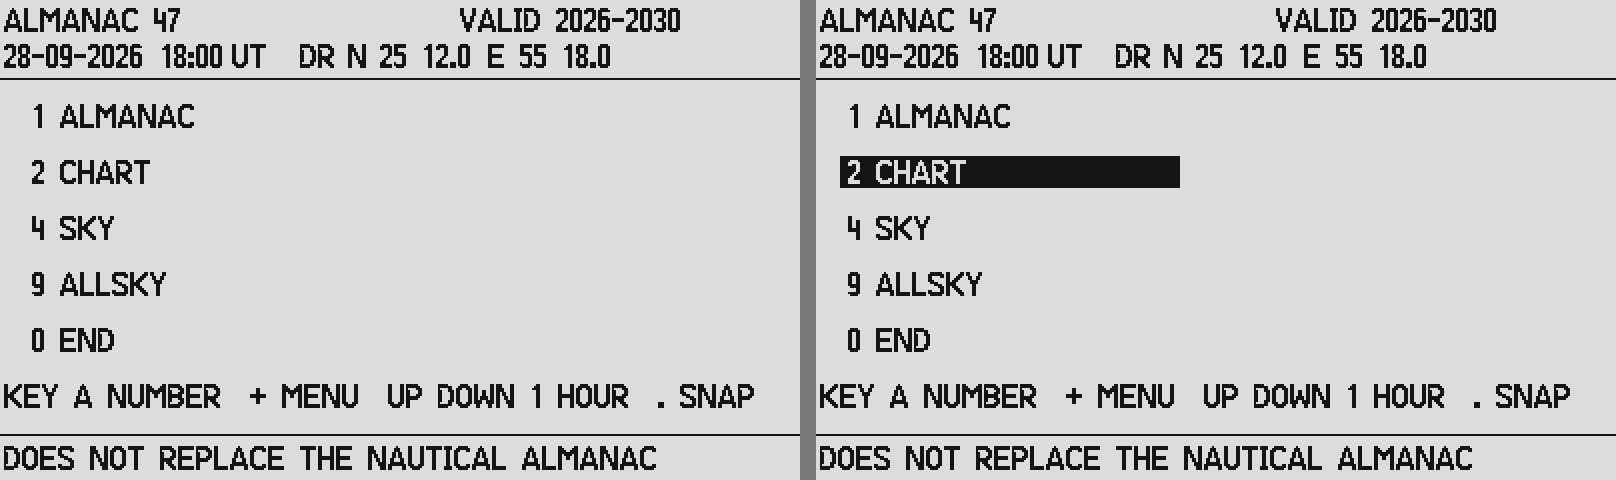
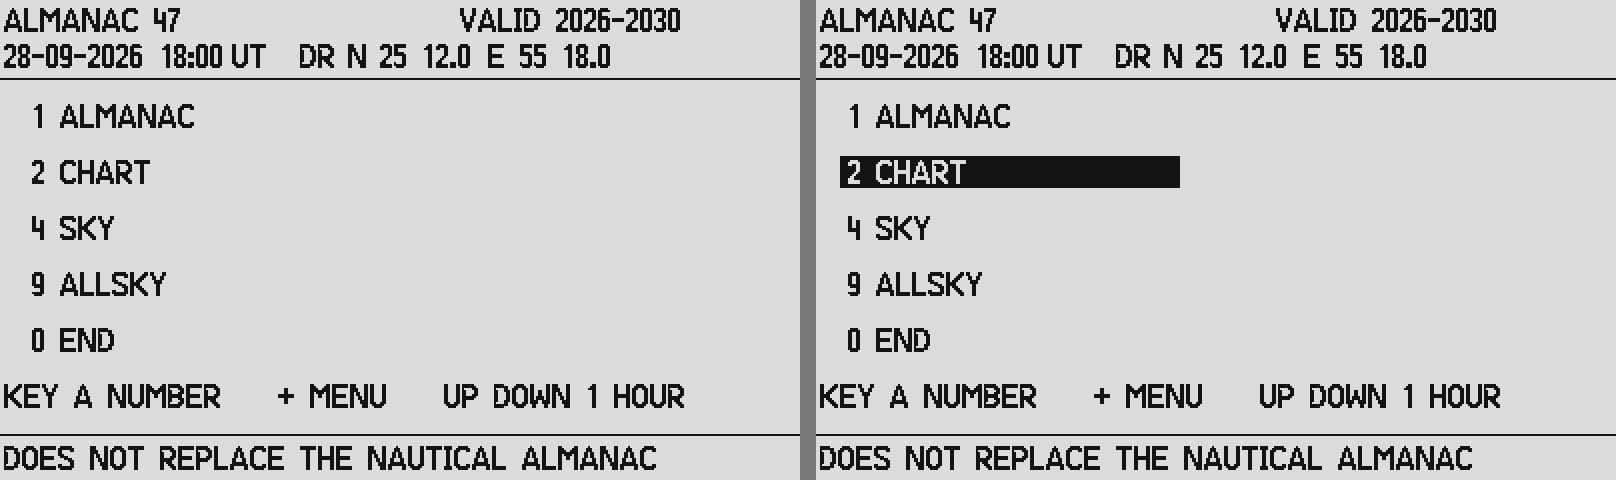
Revert "NAV: . key takes a screenshot (SNAP) of the menu or the view"
This reverts commit 85b8604 (keys not working properly on the C47).

Claude-Session: https://claude.ai/code/session_01677MyYEjVMcLMWfCdQA5yQ

Changed region(s): [[0.6498, 0.7812, 0.9901, 0.875], [0.1547, 0.7812, 0.4641, 0.875]]

diff --git a/tools/generators/gennav.py b/tools/generators/gennav.py
@@ -26,9 +26,8 @@ TOP, PITCH, XL, XR = 176, 28, 16, 206
 BOX_W, BOX_H = 170, 16
 TITLE = 'ALMANAC 47'
 UP, DOWN = 51, 61                      # arrow keycodes
-DOT = 83                               # . key: SNAP (screenshot of what is shown)
 ANTS = 6                               # ants shown after an arrow, 0.1 s apart
-HINT = 'KEY A NUMBER  + MENU  UP DOWN 1 HOUR  . SNAP'
+HINT = 'KEY A NUMBER    + MENU    UP DOWN 1 HOUR'
 WARNING = 'DOES NOT REPLACE THE NAUTICAL ALMANAC'
 
 
@@ -88,7 +87,6 @@ def program(inp, items=ALL, autoinit=False):
     a('LBL 02', 'KEY? 39', 'GTO 02',
       'RCL 39', 82, 'X=Y?', 'GTO 09',
       'RCL 39', UP, 'X=Y?', 'GTO 22', 'RCL 39', DOWN, 'X=Y?', 'GTO 23',        # arrows: the menu one hour later / earlier
-      'RCL 39', DOT, 'X=Y?', 'GTO 27',                                         # . : screenshot of the menu
       'RCL 39', 10, '÷', 'IP', 'STO 38', 5, 'X>Y?', 'GTO 26', 'RCL 38', 7, 'X<Y?', 'GTO 26',     # row 5-7
       'RCL 39', 10, 'MOD', 'STO 37', 2, 'X>Y?', 'GTO 26', 'RCL 37', 4, 'X<Y?', 'GTO 26',        # column 2-4
       7, 'RCL- 38', 3, '×', 'RCL+ 37', 1, '-', 'STO 38')                                   # the digit
@@ -99,8 +97,7 @@ def program(inp, items=ALL, autoinit=False):
     for d in items:
         a(d, 'RCL "VW"', 'X=Y?', 'GTO %d' % (9 + d))
     a('GTO 01', 'LBL 09', 'CLLCD', 'RTN',
-      'LBL 22', 1, 'STO+ "DH"', 'XEQ 48', 'GTO 01', 'LBL 23', 1, 'STO- "DH"', 'XEQ 48', 'GTO 01',
-      'LBL 27', 'SNAP', 'XEQ 48', 'GTO 01')
+      'LBL 22', 1, 'STO+ "DH"', 'XEQ 48', 'GTO 01', 'LBL 23', 1, 'STO- "DH"', 'XEQ 48', 'GTO 01')
     for d in items:
         if d == 3:                          # TEXT: the page into the registers, NAV ends in REGS
             a('LBL 12', *text_steps(24)); a('REGS', 'RTN')
@@ -114,7 +111,6 @@ def program(inp, items=ALL, autoinit=False):
     # after a view (it returns on any key, R39): + the menu, up arrow one hour later, down arrow one
     # hour earlier, any other key the same view again (its release would leave the stack on the screen)
     a('LBL 05', 'RCL 39', UP, 'X=Y?', 'GTO 06', 'RCL 39', DOWN, 'X=Y?', 'GTO 07',
-      'RCL 39', DOT, 'X=Y?', 'SNAP',                           # . : screenshot (taken before the key is released), then drawn again
       'RCL 39', 'X=0?', 'GTO 25', 85, 'X≠Y?', 'GTO 08', 'LBL 25', 'XEQ 48', 'GTO 01',
       'LBL 06', 1, 'STO+ "DH"', 'GTO 08', 'LBL 07', 1, 'STO- "DH"',
       # while the key is released (its release would bring the stack back over a new drawing):

diff --git a/tests/test_navfull.py b/tests/test_navfull.py
@@ -179,9 +179,3 @@ c.run('NAV',maxsteps=10**8)
 ref=Engine('programs'); b,_=ref.screen('ALMF',jd(2026,9,26,14+57/60),25+20/60,55+12/60)
 n=sum(1 for f in c.frames if {(x,239-y) for y,x in f if 0<=x<400 and 0<=y<240}==b[0])
 print('NAV other key on ALMF: drawn', n, 'times (2 expected)')
-# . key: SNAP on the menu and on a view, then drawn again
-c=load(['build/NAVINIT.txt','build/dev/NAVFULL.txt'],False)
-c.reg['DATE']=D('2026.0926'); c.reg['UTC']=D('14.57'); c.reg['LAT']=D('25.20'); c.reg['LON']=D('55.12')
-c.s=[D(0)]*4; c.keys=[83,KEYCODE[1],83,85,KEYCODE[0]]; c.frames=[]; c.pix=[]
-c.run('NAV',maxsteps=10**8)
-print('NAV . key: screenshots', getattr(c,'snaps',0), '(2 expected)')

diff --git a/python/c47sim.py b/python/c47sim.py
@@ -190,7 +190,6 @@ class Calc:
             if op == 'αSL': self.rset(arg, self.rget(arg)[int(self.s[0]):]); continue
             if op == 'REM': continue
             if op == 'WSIZE': self.ws=int(arg); continue
-            if op == 'SNAP': self.snaps=getattr(self,'snaps',0)+1; continue
             if op == 'REGS': self.regs_opened=True; continue
             if op == 'RAN#':
                 import random as _r; self.push(D(repr(_r.Random(getattr(self,'seed',0)).random()))); self.seed=getattr(self,'seed',0)+1; continue

diff --git a/DEVELOPMENT_NOTES.md b/DEVELOPMENT_NOTES.md
@@ -275,6 +275,3 @@ INIT with the builders as LBL 01-04.
   key is released; KT2 (PAUSE only, key pressed during the pause) - the band stays. So the redraw
   comes with a key caught by KEY? (on its release), not with every key. Hence NAV: after KEY?
   a pause (with the ants) for the release, then draw again.
-- g + EXIT (screenshot) does not work while NAV runs: KEY? takes the keys, EXIT stops the program.
-  Now the . key (83) runs SNAP (SCREENS/<date>.bmp) on the menu and on every drawn view, then
-  the screen is drawn again (the release after KEY?).
